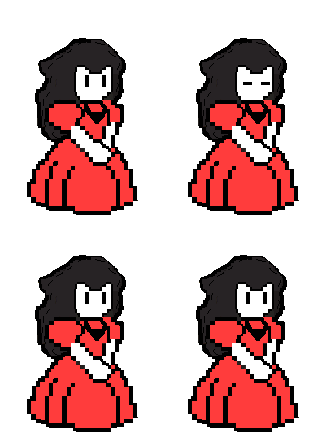
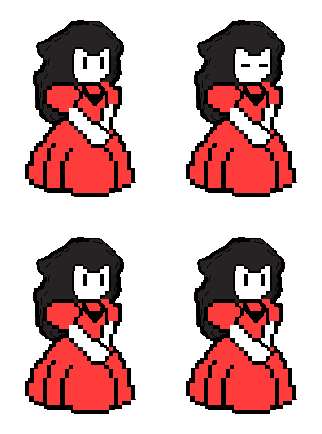
Rajout du preload qui carry (merci Gaelle et Alexandre)

diff --git a/Preload.js b/Preload.js
@@ -3,28 +3,59 @@ class Preload extends Phaser.Scene {
         super("Preload");
     }
     preload() {
+        /* preload Tileset et Maps */
+        this.load.tilemapTiledJSON("maison", "Json/Maison.json");
+        this.load.tilemapTiledJSON("jar", "Json/Past_1.json");
+        this.load.tilemapTiledJSON("Jardin", "Json/Zone_1.json");
+        this.load.tilemapTiledJSON("Guerre", "Json/Zone_2.json");
+        this.load.image("Phaser_tuilesdejeu", "doc/tileset collectable.png");
+
+        /* preload Sons */
+        this.load.audio('Dead_Ends', "son/Dead_Ends.mp3");
+
+        /* preload assets */
         this.load.image("bouton", "doc/étoile.png");
-        this.load.image("ecran", "doc/Menu.png")
-        this.load.image("fond","doc/Fond_Menu.png")
-        this.load.image("coment","doc/Commencement.png")
-    }
-    create() {
-        this.add.image(450, 475, "fond").setScale(0.75);
-        this.add.image(450, 475, "ecran").setScale(0.41);
-        this.add.image(490, 775, "coment").setScale(0.21);
+        this.load.image("ecran", "doc/Menu.png");
+        this.load.image('bout', "doc/faille1.png");
+        this.load.image('souleil', "planetes/SoleilP.png");
+        this.load.image('boute', "doc/faille2.png");
+        this.load.image('mais3',"doc/Maison_3.png");
+        this.load.image('soleil', "planetes/Soleil.png");
+        this.load.image('mais2',"doc/Maison_2.png");
+        this.load.image("porte", "doc/étoile.png");
+        this.load.image("faille3","doc/faille3.png");
+
+        /* preload Textes */
+        this.load.image('prélude', "doc/prélude.png");
+        this.load.image("coment","doc/Commencement.png");
+
+
+        /* preload Backgrounds */
+        this.load.image("fond_1","doc/galaxie.png");
+        this.load.image("fond","doc/Fond_Menu.png");
+        this.load.image('hor', "doc/horizon.png");
+        this.load.image("k2","doc/k2.png");
+        this.load.image("fond_2","doc/galaxie2.png");
+
+        /* preload Animations */
+        this.load.image('perso', 'doc/Gaïa.png',{ frameWidth: 32, frameHeight: 65 });
+        this.load.spritesheet("slime", "doc/slime.png",{frameWidth : 262, frameHeight: 192});
+        this.load.spritesheet('cligne', 'doc/blinkD.png',{frameWidth : 161, frameHeight: 217});
         
-        this.gameButton = this.add.image(275,773,"bouton").setInteractive().setScale(0.4);
-        this.gameButton.on("pointerdown", this.launchGame, this);
     }
-    update() {}
-    launchGame()
-    {
-        this.scene.start('Debut',{
-            coordX: 50,
-            coordY: 840    
-        }
-        )
+    create() {  
 
-    }
+        this.anims.create({
+            key: 'anim1',
+            frames: this.anims.generateFrameNumbers('cligne', {start:0,end:4}),
+            frameRate: 1,
+            repeat: -1
+        })
 
+        this.player = this.physics.add.sprite(this.coordX, this.coordY, 'cligne').setScale(0.43).setSize(150,150);
+        this.player.setCollideWorldBounds(true);
+
+        
+        this.scene.start('Main')
+    }   
 }

diff --git a/Past1.js b/Past1.js
@@ -10,19 +10,6 @@ class Past1 extends Phaser.Scene {
         this.coordY = data.coordY
     }
     preload() {
-        this.load.image("Phaser_tuilesdejeu", "doc/tileset collectable.png");
-        this.load.tilemapTiledJSON("jar", "Json/Past_1.json");
-        this.load.image("fond_2","doc/galaxie2.png")
-        this.load.image('souleil', "planetes/SoleilP.png");
-        this.load.audio('Dead_Ends', "son/Dead_Ends.mp3");
-        this.load.image('boute', "doc/faille2.png");
-        this.load.image('mais2',"doc/Maison_2.png")
-        this.load.image('mais3',"doc/Maison_3.png")
-        this.load.image("porte", "doc/étoile.png");
-        
-
-        this.load.spritesheet('cligne', 'doc/cligne.png',
-                {frameWidth : 161, frameHeight: 217});
     }
     create() {
 
@@ -56,18 +43,13 @@ class Past1 extends Phaser.Scene {
         this.porte = this.physics.add.staticGroup();
         this.porte.create(125,850, 'porte').setScale(0.2);
 
-        this.anims.create({
-            key: 'anim1',
-            frames: this.anims.generateFrameNumbers('cligne', {start:0,end:40}),
-            frameRate: 10,
-            repeat: -1
-        })
+
 
 
 
 
         //Config
-        this.player = this.physics.add.sprite(this.coordX, this.coordY, 'cligne').setScale(0.3);
+        this.player = this.physics.add.sprite(this.coordX, this.coordY, 'cligne').setScale(0.43).setSize(150,150);
         this.player.setCollideWorldBounds(true);
 
         

diff --git a/Zone_1.js b/Zone_1.js
@@ -10,16 +10,7 @@ class Zone_1 extends Phaser.Scene {
         this.coordY = data.coordY
     }
     preload() {
-        this.load.image("Phaser_tuilesdejeu", "doc/tileset collectable.png");
-        this.load.tilemapTiledJSON("Jardin", "Json/Zone_1.json");
-        this.load.image("fond_1","doc/galaxie.png")
-        this.load.image('perso', 'doc/Gaïa.png',{ frameWidth: 32, frameHeight: 65 });
-        this.load.image('soleil', "planetes/Soleil.png");
-        this.load.audio('Dead_Ends', "son/Dead_Ends.mp3");
-        this.load.image('prélude', "doc/prélude.png");
-        this.load.image('bout', "doc/faille1.png")
-        this.load.image('mais2',"doc/Maison_2.png")
-        this.load.image("porte", "doc/étoile.png");
+
         
     }
     create() {
@@ -98,6 +89,7 @@ class Zone_1 extends Phaser.Scene {
         }
         else{ // sinon
             this.player.setVelocityX(0);
+            
         }
         if (this.cursors.up.isDown && this.player.body.blocked.down){
             this.player.setVelocityY(-330);

diff --git a/Zone_2.js b/Zone_2.js
@@ -8,13 +8,7 @@ class Zone_2 extends Phaser.Scene {
         this.coordY = data.coordY
     }
     preload() {
-        this.load.image("Phaser_tuilesdejeu", "doc/tileset collectable.png");
-        this.load.tilemapTiledJSON("Guerre", "Json/Zone_2.json");
-        this.load.image("k2","doc/k2.png")
-        this.load.image('perso', 'doc/Gaïa.png',{ frameWidth: 32, frameHeight: 65 });
-        this.load.image("faille3","doc/faille3.png")
-        this.load.image('hor', "doc/horizon.png");
-        this.load.spritesheet("slime", "doc/slime.png",{frameWidth : 262, frameHeight: 192})
+
     }
     create() {
         this.add.image(1800, 680, 'k2').setScale(1.2);
@@ -84,6 +78,7 @@ class Zone_2 extends Phaser.Scene {
         }
         else{ // sinon
             this.player.setVelocityX(0);
+            this.player.anims.play('anim1', true);
         }
         if (this.cursors.up.isDown && this.player.body.blocked.down){
             this.player.setVelocityY(-330);

diff --git a/index.html b/index.html
@@ -20,6 +20,7 @@
     <script src="Past2.js"></script>
     <script src="Maison.js"></script>
     <script src="Debut.js"></script>
+    <script src="Preload.js"></script>
     <script type="text/javascript">
         var config = {
             type: Phaser.AUTO,
@@ -44,7 +45,7 @@
                     debug: true
                 }
             },
-            scene: [Main,Debut,Maison,Zone_1,Past1,Zone_2,Past2,Fin],
+            scene: [Preload,Main,Debut,Maison,Zone_1,Past1,Zone_2,Past2,Fin],
         };
         new Phaser.Game(config);
     </script>

diff --git a/Maison.js b/Maison.js
@@ -10,12 +10,7 @@ class Maison extends Phaser.Scene {
         this.coordY = data.coordY
     }
     preload() {
-        this.load.image("Phaser_tuilesdejeu", "doc/tileset collectable.png");
-        this.load.tilemapTiledJSON("maison", "Json/Maison.json");
-        this.load.image("fond_1","doc/galaxie.png")
-        this.load.image('perso', 'doc/Gaïa.png',{ frameWidth: 32, frameHeight: 65 });
-        this.load.audio('Dead_Ends', "son/Dead_Ends.mp3");
-        this.load.image('bout', "doc/faille1.png")
+
         
     }
     create() {

diff --git a/Main.js b/Main.js
@@ -2,12 +2,7 @@ class Main extends Phaser.Scene {
     constructor() {
         super("Main");
     }
-    preload() {
-        this.load.image("bouton", "doc/étoile.png");
-        this.load.image("ecran", "doc/Menu.png")
-        this.load.image("fond","doc/Fond_Menu.png")
-        this.load.image("coment","doc/Commencement.png")
-    }
+    preload() {}
     create() {
         this.add.image(450, 475, "fond").setScale(0.75);
         this.add.image(450, 475, "ecran").setScale(0.41);

diff --git a/Debut.js b/Debut.js
@@ -58,6 +58,7 @@ class Debut extends Phaser.Scene {
         }
         else{ // sinon
             this.player.setVelocityX(0);
+            this.player.anims.play('anim1', true);
         }
         if (this.cursors.up.isDown && this.player.body.blocked.down){
             this.player.setVelocityY(-330);
